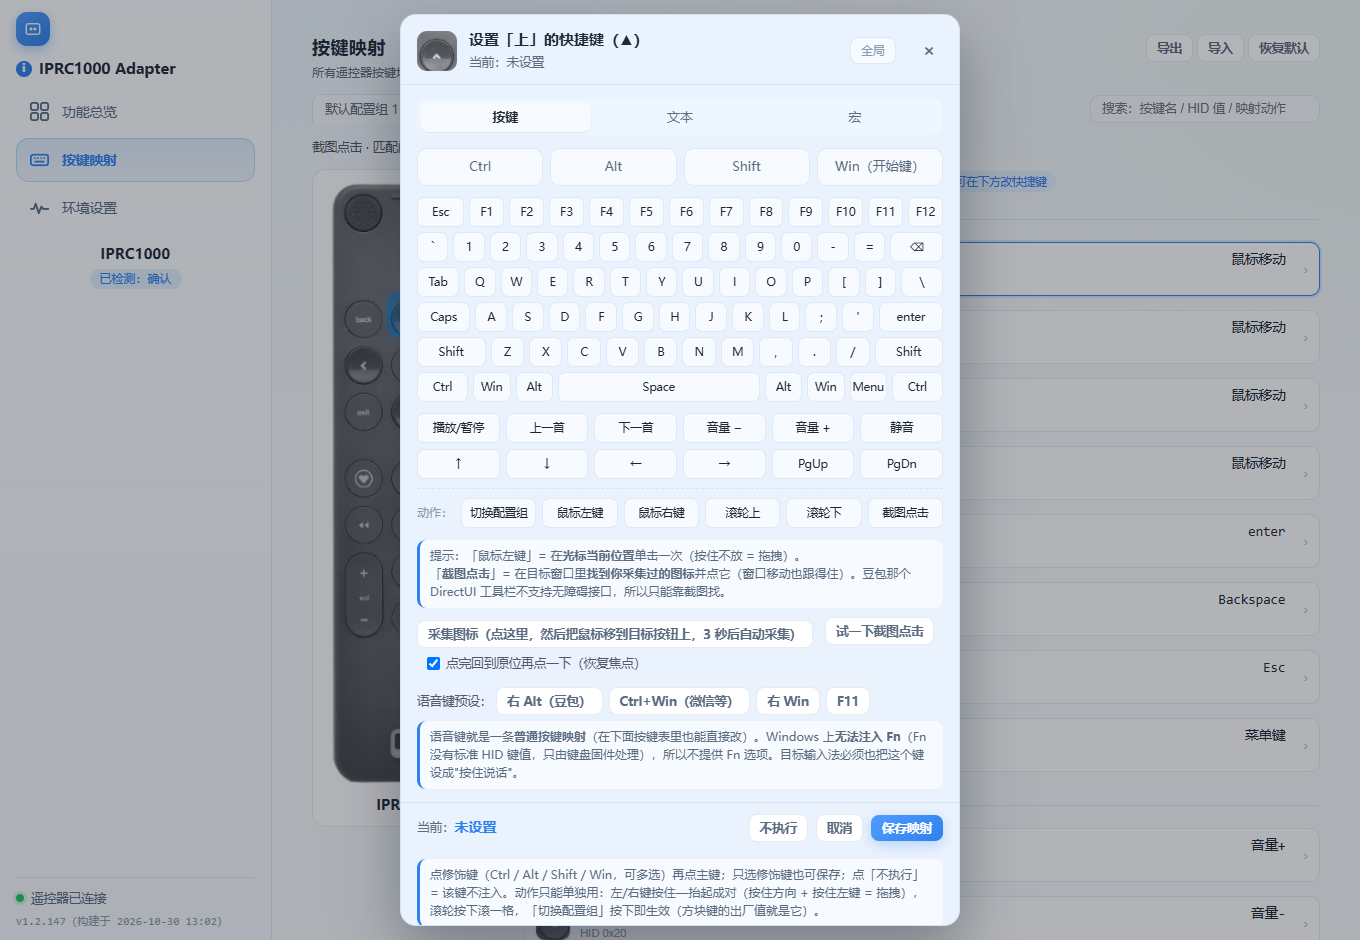
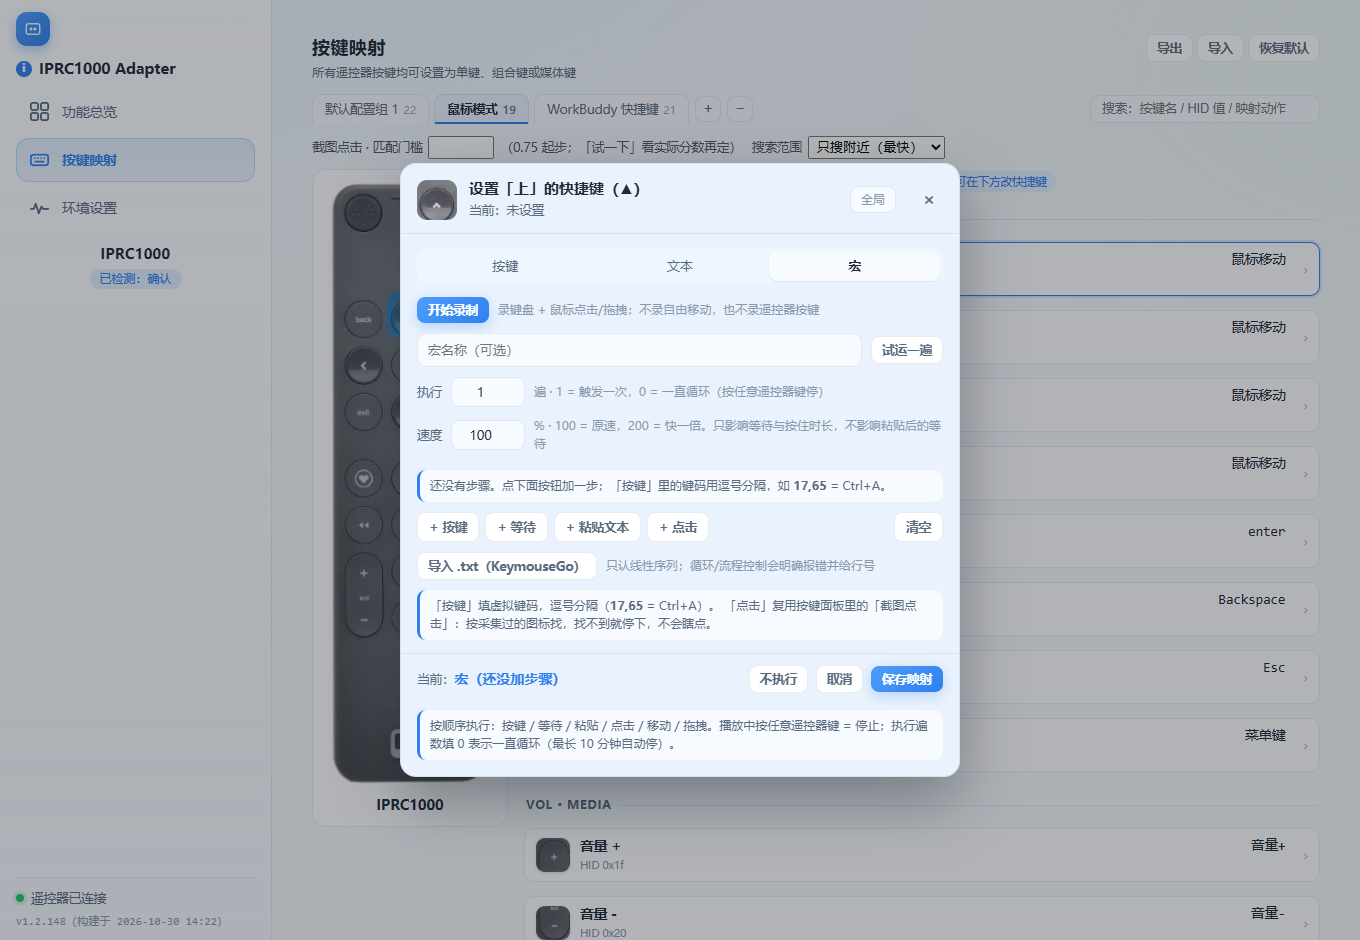
修「配了宏/文本按键不生效」：点击默认走光标位 + 失败必须可见（1.2.148）
## 根因（用真机数据查出来的）
用户 keymap 里 `play_pause → -1101 → 宏101`，数据链完全正确；
但宏 101 的两个步骤都是 `{"Type":"click","Target":"icon"}` —— 这是**截图匹配**，
需要先采集图标。用户从没采集过，所以第 1 步就失败，而 OnFail 默认「停」，
整条宏立刻结束。

再加上 **`LogEnabled=false`（默认关闭）** ⇒ key-events.log 根本没写，
`MACRO 第 1 步 没找到图标` 那行不存在；托盘气泡又一闪而过。
三个因素叠加，体感就是"按了完全没反应，也没任何提示"。

## 修
1. **「+ 点击」默认改成 `cursor`（在光标位置点一下）**
   —— 这才是用户加"+ 点击"时的本意。截图匹配改成下拉里的第二项，并明写"需先采集图标"。
2. **图标点击失败的提示写清"为什么 + 怎么办"**：
   "没找到图标 —— 这是「截图匹配」，需要先在按键页采集图标；只想在当前位置点一下的话，
   把目标改成「在光标位置点一下」"
3. **托盘气泡：失败用警告图标 + 停留 6 秒**（原 2 秒 + 普通图标）。
   日志默认关着，气泡是用户唯一能看到原因的地方。

## 顺带
帮用户把宏 101 的两步从「图标点击」改成「光标位置」（备份在 macros.json.bak-before-cursor），
失败策略也改成「跳过」—— 那个宏原本不可能跑通。

## 验证
- 界面实测：`+ 点击` 默认 target=cursor，下拉三项文案正确
- 探针全绿、自检 17/17、打包断言全过（新增 3 条：点击默认 cursor / cursor 分支存在 / 失败用警告气泡）

diff --git a/iprc1000_gui_dotnet/ui/app.js b/iprc1000_gui_dotnet/ui/app.js
@@ -840,7 +840,11 @@ function defStep(t) {
     holdMs: 30,
     ms: t === 'wait' ? 300 : 0,
     slot: TXT.slot || 1,
-    target: 'icon',
+    // ★ 点击默认"在光标位置"：这是用户加"+ 点击"时的本意。
+    //   `icon` 是**截图匹配**（要先去采集图标），选错了会表现为"按了没反应"——
+    //   实测就踩过：用户加了两个点击步骤，宏在第 1 步"没找到图标"直接停，
+    //   而日志默认是关的，界面上什么提示都没有。
+    target: t === 'click' ? 'cursor' : 'icon',
     x: 0, y: 0, x2: 0, y2: 0,
     sw: 0, sh: 0,
     winTitle: '',
@@ -881,9 +885,11 @@ function renderMacroPane() {
         }).join('')}</select>`
            + `<select data-i="${i}" data-f="pasteKey">${pkOpts}</select>`;
       } else if (t === 'click') {
+        const tg = s.target || 'cursor';
         pm = `<select data-i="${i}" data-f="target">`
-           + `<option value="icon"${s.target !== 'coord' ? ' selected' : ''}>图标匹配（找不到就停）</option>`
-           + `<option value="coord"${s.target === 'coord' ? ' selected' : ''}>坐标 ${s.x ?? 0},${s.y ?? 0}</option>`
+           + `<option value="cursor"${tg === 'cursor' ? ' selected' : ''}>在光标位置点一下</option>`
+           + `<option value="icon"${tg === 'icon' ? ' selected' : ''}>截图匹配（需先采集图标）</option>`
+           + `<option value="coord"${tg === 'coord' ? ' selected' : ''}>坐标 ${s.x ?? 0},${s.y ?? 0}</option>`
            + `</select>`;
       } else if (t === 'move') {
         pm = `<span class="rd">→ ${s.x ?? 0},${s.y ?? 0}</span>`;
@@ -2279,9 +2285,9 @@ function boot() {
       admin: true,
       // 预览用的示例版本号 —— 真实值来自 csproj 的 <Version>（Env.AppVersion）。
       // 改版本时顺手同步这里即可（仅影响"直接用浏览器打开 ui/index.html"的预览与截图）。
-      version: '1.2.147',
+      version: '1.2.148',
       buildStamp: '2026-10-16 09:50',
-      versionLine: 'v1.2.147（构建于 2026-10-30 13:02）',
+      versionLine: 'v1.2.148（构建于 2026-10-30 14:22）',
       device: {
         connected: true, paired: true, lastKey: '确认', lastState: '已翻译',
         detail: { hid: [{ id: 'HID\\{00001124-...}_VID&00020a5c_PID&8502', online: true }],

diff --git a/iprc1000_gui_dotnet/ui/index.html b/iprc1000_gui_dotnet/ui/index.html
@@ -281,7 +281,7 @@
                 <button class="btn ghost" data-add="keys">+ 按键</button>
                 <button class="btn ghost" data-add="wait">+ 等待</button>
                 <button class="btn ghost" data-add="paste">+ 粘贴文本</button>
-                <button class="btn ghost" data-add="click">+ 点击（图标）</button>
+                <button class="btn ghost" data-add="click">+ 点击</button>
                 <span style="flex:1"></span>
                 <!-- 清空：重新配一个宏时不用逐条删。会二次确认（误点丢很多步很难受） -->
                 <button class="btn ghost" id="macClear" title="清空所有步骤，重新配">清空</button>

diff --git a/tools/package.py b/tools/package.py
@@ -245,6 +245,12 @@ SRC_REQUIRED = [
     ("坐标点击前校验窗口", "iprc1000_gui_dotnet/MacroPlayer.cs", "WrongWindow(st)"),
     ("粘贴键可配（终端场景）", "iprc1000_gui_dotnet/MacroPlayer.cs", "DoPaste(st.Slot, st.PasteKey"),
     ("失败策略 skip 要留痕", "iprc1000_gui_dotnet/MacroPlayer.cs", "已设置为跳过继续"),
+    # ★ v1.2.148：点击默认走"光标位置"（用户加"+ 点击"的本意）
+    #   实测踩过：用户加了「点击（图标）」但没采集图标 → 宏第 1 步就停，
+    #   而日志默认关着 ⇒ 体感"按了完全没反应"。
+    ("点击默认走光标位", "iprc1000_gui_dotnet/ui/app.js", "target: t === 'click' ? 'cursor' : 'icon'"),
+    ("光标位点击的分支存在", "iprc1000_gui_dotnet/MacroPlayer.cs", 'if (target == "cursor")'),
+    ("宏失败要用警告气泡", "iprc1000_gui_dotnet/MainForm.cs", "ToolTipIcon.Warning"),
     # ★ v1.2.144：全局按键（语音键跨配置组统一）
     #   这四条防的是"语音键随配置组漂移"——实测过：首页切成微信输入法，
     #   切到鼠标模式又变回右 Alt，用户报的就是这个。

diff --git a/iprc1000_gui_dotnet/MacroPlayer.cs b/iprc1000_gui_dotnet/MacroPlayer.cs
@@ -432,8 +432,15 @@ internal static class MacroPlayer
 
         if (target == "icon")
         {
-            // 图标匹配：找不到就停，**不退回坐标** —— 坐标点空会点到别的按钮上
-            if (!KeyAct.ClickIconNow()) { why = "没找到图标"; return false; }
+            // 图标匹配：找不到就停，**不退回坐标** —— 坐标点空会点到别的按钮上。
+            // ★ 提示必须说清"这是什么、该怎么办"：实测用户加了「点击（图标）」却从没采集过图标，
+            //   宏在第 1 步就停，日志默认又是关的 ⇒ 体感就是"按了完全没反应"。
+            if (!KeyAct.ClickIconNow())
+            {
+                why = "没找到图标 —— 这是「截图匹配」，需要先在按键页采集图标；"
+                    + "只想在鼠标当前位置点一下的话，把这一步的目标改成「在光标位置点一下」";
+                return false;
+            }
             return true;
         }
 

diff --git a/iprc1000_gui_dotnet/MainForm.cs b/iprc1000_gui_dotnet/MainForm.cs
@@ -259,9 +259,18 @@ internal sealed class MainForm : Form
             try
             {
                 if (!IsHandleCreated) return;
+                // 失败消息要显眼：日志默认是关的（LogEnabled=false），
+                // 托盘气泡是用户**唯一**能看到"宏为什么没跑"的地方。
+                var bad = msg.Contains("失败") || msg.Contains("没找到") || msg.Contains("中止")
+                       || msg.Contains("中断") || msg.Contains("第 ");
                 BeginInvoke(new Action(() =>
                 {
-                    try { _tray.ShowBalloonTip(2000, Env.AppName, msg, ToolTipIcon.None); } catch { }
+                    try
+                    {
+                        _tray.ShowBalloonTip(bad ? 6000 : 2000, Env.AppName, msg,
+                                             bad ? ToolTipIcon.Warning : ToolTipIcon.None);
+                    }
+                    catch { }
                 }));
             }
             catch { }
